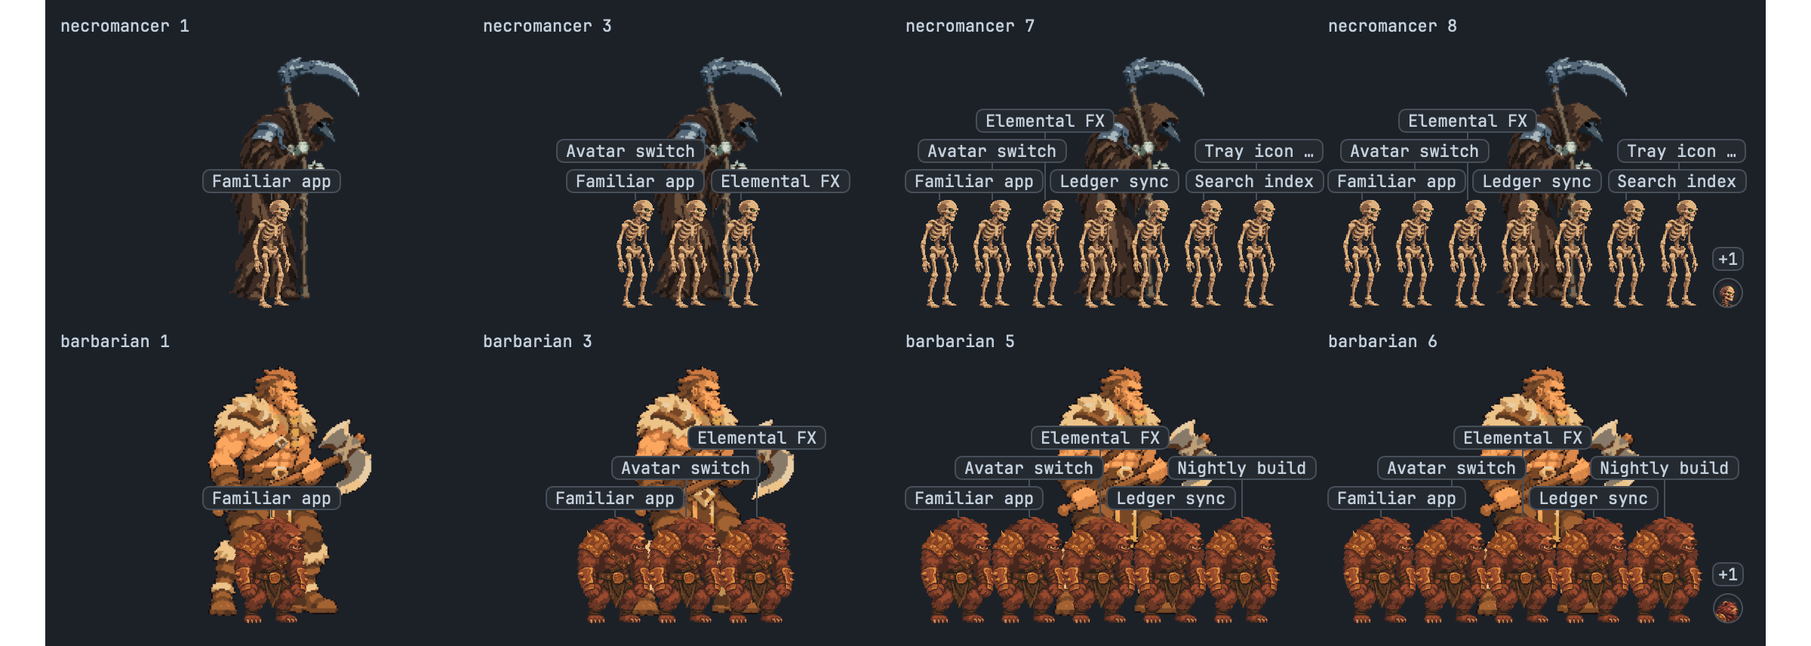
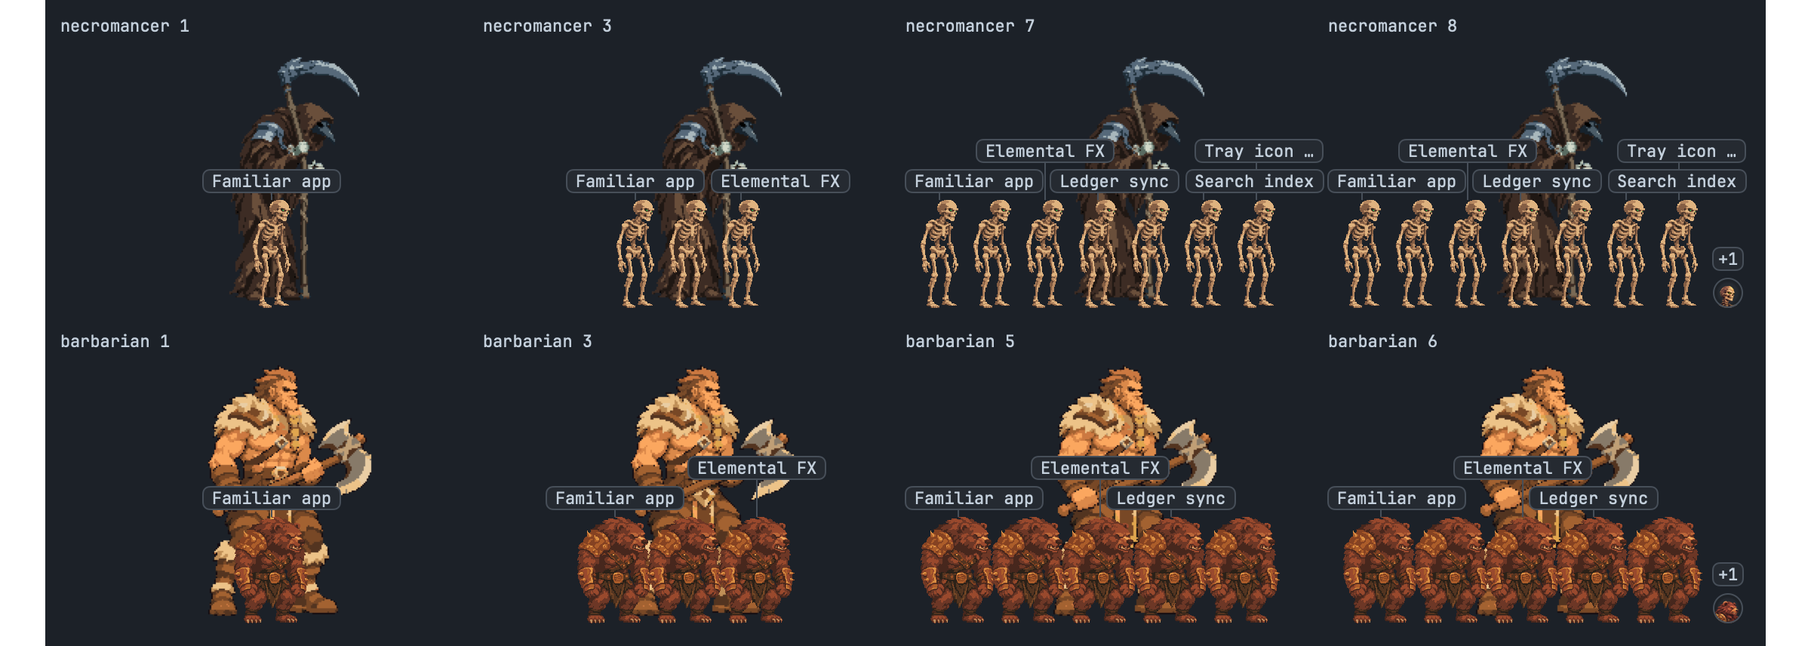
Show a worker's name only while it is working
An idle, done, blocked, stopped or errored worker's familiar keeps its place in the row but shows no name, and takes no room for the tiers. The rule is TrackerCompanyNameTags.showsName in Core; the tags come and go with the status.

diff --git a/app/Sources/Core/Tracker/TrackerCompanyNameTags.swift b/app/Sources/Core/Tracker/TrackerCompanyNameTags.swift
@@ -1,7 +1,8 @@
 import Foundation
 
-/// The worker names above the familiars in the master's company, as the tiered treatment places them. Each shown familiar's name sits in a
-/// chip over its head on a stem. A name takes the lowest of `tierCount` tiers with room over its head, a chip keeping `chipGap` from its
+/// The worker names above the familiars in the master's company, as the tiered treatment places them. A familiar's name shows only while its
+/// worker is working (a busy turn), in a chip over its head on a stem; an idle, done, blocked, stopped or errored worker's name shows
+/// nowhere and takes no room. A name takes the lowest of `tierCount` tiers with room over its head, a chip keeping `chipGap` from its
 /// neighbours on its tier. A tier whose band runs into the master's face is blocked where the face is. A name with no room on any tier is
 /// cut with an ellipsis to the widest free run over its head, and a name that cannot keep `minimumLetters` letters and an ellipsis gets no
 /// chip. Pure: the App measures the text and cuts it, through the `cut` closure. Heights are points above the slot's bottom.
@@ -21,19 +22,26 @@ public enum TrackerCompanyNameTags {
     /// The fewest letters a cut name keeps before its ellipsis.
     public static let minimumLetters = 4
 
-    /// One familiar's name to place: the full text width (without the chip's padding), the x of the familiar's centre, and the y of its
-    /// visible top.
+    /// Whether a worker's name shows at all: only while its session is working, the busy turn whose familiar poses thinking or working.
+    public static func showsName(_ session: TrackerSession) -> Bool {
+        TrackerStatusClassifier.classify(session).kind == .working
+    }
+
+    /// One familiar's name to place: the full text width (without the chip's padding), the x of the familiar's centre, the y of its
+    /// visible top, and whether its worker is working. A name whose worker is not working gets no placement and takes no room.
     public struct Tag: Equatable, Sendable {
         public let name: String
         public let nameWidth: Double
         public let centre: Double
         public let headTop: Double
+        public let working: Bool
 
-        public init(name: String, nameWidth: Double, centre: Double, headTop: Double) {
+        public init(name: String, nameWidth: Double, centre: Double, headTop: Double, working: Bool) {
             self.name = name
             self.nameWidth = nameWidth
             self.centre = centre
             self.headTop = headTop
+            self.working = working
         }
     }
 
@@ -68,14 +76,19 @@ public enum TrackerCompanyNameTags {
         public var stemLeft: Double { centre - 0.5 }
     }
 
-    /// Places each name, the first familiar's first, so an earlier name keeps the lower tier when two collide. `cut` returns the widest
-    /// prefix of a name plus an ellipsis whose text width is at most the given width, with that width; nil when even `minimumLetters` letters
-    /// and the ellipsis don't fit. A name's chip stays inside the slot's `slotWidth`, and a name that is wider than the slot is cut.
+    /// Places each working name, the first familiar's first, so an earlier name keeps the lower tier when two collide; a name that isn't
+    /// working is nil and places nothing. `cut` returns the widest prefix of a name plus an ellipsis whose text width is at most the given
+    /// width, with that width; nil when even `minimumLetters` letters and the ellipsis don't fit. A name's chip stays inside the slot's
+    /// `slotWidth`, and a name that is wider than the slot is cut.
     public static func place(_ tags: [Tag], face: Box?, slotWidth: Double,
                              cut: (String, Double) -> (text: String, width: Double)?) -> [Placement?] {
         var placed: [Placement] = []
         var result: [Placement?] = []
         for tag in tags {
+            guard tag.working else {
+                result.append(nil)
+                continue
+            }
             let placement = placeOne(tag, placed: placed, face: face, slotWidth: slotWidth, cut: cut)
             if let placement {
                 placed.append(placement)

diff --git a/app/Tests/QuestmasterLogicTests/TrackerCompanyNameTagsTests.swift b/app/Tests/QuestmasterLogicTests/TrackerCompanyNameTagsTests.swift
@@ -1,7 +1,8 @@
 import Foundation
 import QuestmasterCore
 
-/// The tiered worker names: the tier each name takes, its stem, the face it must not cover, and the cut to the room over its head.
+/// The tiered worker names: which names show (only a working worker's), the tier each name takes, its stem, the face it must not cover, and
+/// the cut to the room over its head.
 struct TrackerCompanyNameTagsTests {
     static func run() {
         aSingleNameStandsOnTheLowestTierCentred()
@@ -13,6 +14,9 @@ struct TrackerCompanyNameTagsTests {
         aNameWithNoRoomIsCutWithAnEllipsis()
         aNameThatFitsNowhereGetsNoChip()
         earlierNamesKeepTheLowerTier()
+        anIdleWorkersNameGetsNoChip()
+        anIdleWorkersNameTakesNoRoom()
+        onlyTheWorkingNamesAreTiered()
         print("TrackerCompanyNameTagsTests: all tests passed")
     }
 
@@ -21,8 +25,8 @@ struct TrackerCompanyNameTagsTests {
     private static let slotWidth = 280.0
     private static let headTop = 60.0
 
-    private static func tag(_ name: String, centre: Double) -> TrackerCompanyNameTags.Tag {
-        TrackerCompanyNameTags.Tag(name: name, nameWidth: charWidth * Double(name.count), centre: centre, headTop: headTop)
+    private static func tag(_ name: String, centre: Double, working: Bool = true) -> TrackerCompanyNameTags.Tag {
+        TrackerCompanyNameTags.Tag(name: name, nameWidth: charWidth * Double(name.count), centre: centre, headTop: headTop, working: working)
     }
 
     /// A cut like the App's: the whole name if it fits, else the widest prefix of at least four letters plus an ellipsis.
@@ -123,6 +127,31 @@ struct TrackerCompanyNameTagsTests {
     private static func earlierNamesKeepTheLowerTier() {
         let placed = place([tag("Ember", centre: 140), tag("Quartz", centre: 140)])
         expect(placed[0]?.tier == 0 && placed[1]?.tier == 1, "the first name should keep the lower tier, got \(placed.map { $0?.tier ?? -1 })")
+    }
+
+    /// A worker that is not working has no name over its familiar, even with room over its head.
+    private static func anIdleWorkersNameGetsNoChip() {
+        let placed = place([tag("Ember", centre: 140, working: false)])
+        expect(placed[0] == nil, "an idle worker's name should get no chip, got \(String(describing: placed[0]))")
+    }
+
+    /// An idle worker's name takes no room: a working name over the same head keeps the lowest tier, and the idle one between two working
+    /// names does not push the later one up.
+    private static func anIdleWorkersNameTakesNoRoom() {
+        let placed = place([tag("Ember", centre: 140), tag("Quartz", centre: 140, working: false), tag("Ash", centre: 140)])
+        expect(placed[1] == nil, "the idle name should have no chip")
+        let first = expectPlaced(placed[0], "Ember")
+        let last = expectPlaced(placed[2], "Ash")
+        expect(first.tier == 0, "the first working name should stand on the lowest tier, got \(first.tier)")
+        expect(last.tier == 1, "the third name should climb one tier, over the first working name only, got \(last.tier)")
+    }
+
+    /// Tiers are counted among the working names only: a name over an idle worker's old place stays on the lowest tier.
+    private static func onlyTheWorkingNamesAreTiered() {
+        let placed = place([tag("Ember", centre: 60, working: false), tag("Quartz", centre: 140), tag("Ash", centre: 150, working: false)])
+        expect(placed[0] == nil && placed[2] == nil, "the idle names should have no chip")
+        let second = expectPlaced(placed[1], "Quartz")
+        expect(second.tier == 0 && abs(second.bottom - (headTop + 5)) < 1e-9, "a working name should stand on the lowest tier with no idle name over it, got tier \(second.tier)")
     }
 
     private static func expect(_ condition: @autoclosure () -> Bool, _ message: String) {

diff --git a/app/Sources/App/Tracker/TrackerCompany.swift b/app/Sources/App/Tracker/TrackerCompany.swift
@@ -13,8 +13,10 @@ final class TrackerCompanyStage {
     /// One familiar on the row: its place in the slot, its art and the pose its own director plays.
     struct Companion: Identifiable {
         let id: String
-        /// The worker's session title: the name its tag shows.
+        /// The worker's session title: the name its tag shows, while the worker is working.
         let title: String
+        /// Whether the worker is working (`TrackerCompanyNameTags.showsName`): only then does its name show over it.
+        let working: Bool
         let sprites: TrackerAvatarSprites
         /// The points one frame pixel draws at: a familiar's company frame draws at its half point a pixel.
         let pixel: CGFloat
@@ -42,7 +44,8 @@ final class TrackerCompanyStage {
 
     /// The familiars that show, in spawn order: each stands further right than the one before, so the right-most is drawn on top.
     private(set) var companions: [Companion] = []
-    /// The names over the shown familiars, in spawn order. A name that fits nowhere has no tag, and the "+n" workers have none.
+    /// The names over the shown familiars, in spawn order. Only a working worker's name shows, a name that fits nowhere has no tag, and the
+    /// "+n" workers have none.
     private(set) var nameTags: [NameTag] = []
     /// The workers counted in the "+n" marker.
     private(set) var overflow = 0
@@ -94,12 +97,13 @@ final class TrackerCompanyStage {
         }
         // Each worker's familiar, in spawn order, from its company frames at a half point a pixel. A worker whose familiar has no art shows
         // nothing and takes no place.
-        let familiars: [(id: String, title: String, sprites: TrackerAvatarSprites, pixel: CGFloat)] = TrackerCompanyLayout.liveWorkers(of: master, in: sessions)
-            .compactMap { worker in
+        let familiars: [(id: String, title: String, working: Bool, sprites: TrackerAvatarSprites, pixel: CGFloat)] =
+            TrackerCompanyLayout.liveWorkers(of: master, in: sessions).compactMap { worker in
                 guard let key = catalog.art(for: worker), key.kind == .familiar, art[key] != nil, let company = companionArt[key.classID] else {
                     return nil
                 }
-                return (worker.id, worker.title, company, CGFloat(TrackerCompanyLayout.companyPixelPoints))
+                return (worker.id, worker.title, TrackerCompanyNameTags.showsName(worker), company,
+                        CGFloat(TrackerCompanyLayout.companyPixelPoints))
             }
         guard let first = familiars.first, let row = first.sprites.animation.companyRow else {
             clear()
@@ -136,6 +140,7 @@ final class TrackerCompanyStage {
             return Companion(
                 id: entry.id,
                 title: entry.title,
+                working: entry.working,
                 sprites: entry.sprites,
                 pixel: pixel,
                 bodyX: CGFloat(bodyX),
@@ -188,7 +193,8 @@ final class TrackerCompanyStage {
                 name: companion.title,
                 nameWidth: textWidth(companion.title),
                 centre: Double(companion.bodyX) + restCentreOffset(of: companion.sprites) * Double(companion.pixel),
-                headTop: -TrackerCompanyLayout.belowFeet + restHeight(of: companion.sprites) * Double(companion.pixel)
+                headTop: -TrackerCompanyLayout.belowFeet + restHeight(of: companion.sprites) * Double(companion.pixel),
+                working: companion.working
             )
         }
         let placements = TrackerCompanyNameTags.place(tags, face: faceBox(master: master, slotWidth: slotWidth), slotWidth: slotWidth) {

diff --git a/app/Sources/App/Runtime/RenderPreview.swift b/app/Sources/App/Runtime/RenderPreview.swift
@@ -1655,11 +1655,13 @@ enum RenderPreview {
         .background(AppPalette.window.swiftUI)
     }
 
-    /// The Necromancer and the Barbarian with worker names over their familiars, at one, three, a full row and a full row plus one. The titles
-    /// are invented, of mixed lengths up to 16 characters. Named by RENDER_ONLY=name-tags.
+    /// The Necromancer and the Barbarian with worker names over their working familiars, at one, three, a full row and a full row plus one.
+    /// The workers are a mix of working and idle, so only the working ones have names. The titles are invented, of mixed lengths up to 16
+    /// characters. Named by RENDER_ONLY=name-tags.
     @MainActor
     private static func companyNameTagsView() -> some View {
         let titles = ["Familiar app", "Avatar switch", "Elemental FX", "Ledger sync", "Nightly build", "Search index", "Tray icon polish", "Docs pass 2"]
+        let busy = [true, false, true, true, false, true, true, false]
         let rows: [(classID: String, full: Int)] = [("necromancer", 7), ("barbarian", 5)]
         return VStack(alignment: .leading, spacing: Space.item) {
             ForEach(rows, id: \.classID) { row in
@@ -1667,7 +1669,7 @@ enum RenderPreview {
                     ForEach([1, 3, row.full, row.full + 1], id: \.self) { count in
                         VStack(alignment: .leading, spacing: 0) {
                             Text("\(row.classID) \(count)").font(Font(AppFonts.monoSmall)).foregroundStyle(AppPalette.text.swiftUI)
-                            companyCell(classID: row.classID, workers: count, titles: titles)
+                            companyCell(classID: row.classID, workers: count, titles: titles, working: busy)
                                 .frame(width: TrackerAvatarMetrics.slotWidth, height: TrackerAvatarMetrics.slotHeight)
                                 .padding(.bottom, TrackerListMetrics.avatarBannerGap)
                         }
@@ -1734,13 +1736,15 @@ enum RenderPreview {
         .background(AppPalette.window.swiftUI)
     }
 
-    /// One master's company: its stages fed with the master and its workers, drawn as the tracker draws them.
+    /// One master's company: its stages fed with the master and its workers, drawn as the tracker draws them. `working`, when given, says
+    /// which workers are busy, by index cycling through it; the others are idle.
     @MainActor
-    private static func companyCell(classID: String, workers count: Int, titles: [String]? = nil) -> some View {
+    private static func companyCell(classID: String, workers count: Int, titles: [String]? = nil, working: [Bool]? = nil) -> some View {
         let master = try! testFixtureRow(["id": "qm-m", "title": classID, "session_type": "master", "class": classID, "state": "working"])
         let workers = (0..<count).map { index -> TrackerSession in
             let title = titles.map { $0[index % $0.count] } ?? "Worker \(index)"
-            return try! testFixtureRow(["id": "qm-w\(index)", "title": title, "session_type": "worker", "parent_id": "qm-m", "class": classID, "state": "working"])
+            let busy = working.map { $0[index % $0.count] } ?? true
+            return try! testFixtureRow(["id": "qm-w\(index)", "title": title, "session_type": "worker", "parent_id": "qm-m", "class": classID, "state": busy ? "working" : "idle"])
         }
         let avatar = TrackerAvatarStage(clock: { 0 })
         let company = TrackerCompanyStage(clock: { 0 })

diff --git a/app/Sources/App/Runtime/LogicSelfTests.swift b/app/Sources/App/Runtime/LogicSelfTests.swift
@@ -2831,13 +2831,23 @@ enum LogicSelfTests {
         let stage = TrackerCompanyStage(clock: { clock.now })
         let master = try testRow(["id": "qm-m", "title": "Necromancer", "session_type": "master", "class": "necromancer"])
         let titles = ["Ember", "Ledger sync", "Tray icon polish"]
-        let workers = try titles.enumerated().map { index, title in
-            try testRow(["id": "qm-w\(index)", "title": title, "session_type": "worker", "parent_id": "qm-m", "class": "necromancer"])
+        // Only a working worker's name shows: the middle worker is idle here, so it gets no tag.
+        func rows(middleState: String) throws -> [TrackerSession] {
+            try titles.enumerated().map { index, title in
+                try testRow(["id": "qm-w\(index)", "title": title, "session_type": "worker", "parent_id": "qm-m", "class": "necromancer",
+                             "state": index == 1 ? middleState : "working"])
+            }
         }
+        let workers = try rows(middleState: "idle")
         stage.observe(sessions: [master] + workers, attachedID: "qm-m")
-        // A name with no room on any tier gets no chip (the Necromancer's third familiar here, over its face), so the tags only follow spawn order.
         let ids = stage.nameTags.map(\.id)
-        try expect(ids.first == "qm-w0" && ids == ids.sorted(), "the first familiar should get a name tag, and the tags should follow spawn order, got \(ids)")
+        try expect(ids.first == "qm-w0" && ids == ids.sorted() && !ids.contains("qm-w1"),
+                   "the working familiars should get name tags in spawn order, and the idle one none, got \(ids)")
+        // A tag comes and goes with the status: the idle worker's name shows once it works, and goes when it is idle again.
+        stage.observe(sessions: [master] + (try rows(middleState: "working")), attachedID: "qm-m")
+        try expect(stage.nameTags.contains { $0.id == "qm-w1" }, "a worker's name should show once it is working, got \(stage.nameTags.map(\.id))")
+        stage.observe(sessions: [master] + workers, attachedID: "qm-m")
+        try expect(!stage.nameTags.contains { $0.id == "qm-w1" }, "a worker's name should go when it stops working, got \(stage.nameTags.map(\.id))")
         try expect(stage.nameTags.first?.text == "Ember", "the first name should keep its full text, got \(stage.nameTags.first?.text ?? "none")")
         for tag in stage.nameTags {
             try expect(tag.text == titles[tag.id == "qm-w0" ? 0 : tag.id == "qm-w1" ? 1 : 2] || tag.text.hasSuffix("…"),

diff --git a/.agents/skills/class-avatar/references/behaviour.md b/.agents/skills/class-avatar/references/behaviour.md
@@ -33,7 +33,7 @@ Which pose shows when, how cues play, and where the avatar sits.
   front of the master, right-most on top. A worker whose familiar has no art
   takes no place. A worker attached (not its master) shows its own familiar alone, as before. The slot, banner and plates never move or
   resize for the company.
-- **Names:** each shown familiar in the master's company carries its worker's session title in a chip above its head, 15 pt tall, JetBrains Mono 11 pt, on a 5 pt stem down to the head (`TrackerCompanyNameTags.place` in Core decides; `TrackerCompanyStage` measures and cuts, and the slot draws). A name takes the lowest of three tiers with room over its head, 20 pt apart, keeping a 5 pt gap from its neighbours. A tier whose band runs into the master's face is blocked where the face is, from the class's `head` box in its `animation.json` (`TrackerAvatarAnimation.headBox`; every class has one, measured from its idle art). A name with no room on any tier is cut with an ellipsis to the widest free run over its head, and a name that cannot keep four letters and an ellipsis gets no chip. The "+n" workers and an attached worker's own familiar get no name.
+- **Names:** a familiar in the master's company carries its worker's session title in a chip above its head only while the worker is working (`TrackerCompanyNameTags.showsName`: a busy turn, status working, whose familiar poses thinking or working). The chip is 15 pt tall, JetBrains Mono 11 pt, on a 5 pt stem down to the head (`TrackerCompanyNameTags.place` in Core decides; `TrackerCompanyStage` measures and cuts, and the slot draws). An idle, done, blocked, needs-input, stopped or errored worker's name shows nowhere and takes no room, so the tiers are counted among the working names only. A tag appears and goes with the status, with no hover or colour change. A name takes the lowest of three tiers with room over its head, 20 pt apart, keeping a 5 pt gap from its neighbours. A tier whose band runs into the master's face is blocked where the face is, from the class's `head` box in its `animation.json` (`TrackerAvatarAnimation.headBox`; every class has one, measured from its idle art). A name with no room on any tier is cut with an ellipsis to the widest free run over its head, and a name that cannot keep four letters and an ellipsis gets no chip. The "+n" workers and an attached worker's own familiar get no name.
 - **Director:** `TrackerAvatarDirector` (Core) decides the pose, and it is pure. **Nothing that has an end is cut:** an enter, a finish and a one-shot (a release, a catch, a summoning cast's beat, the bow) always play to their end, whatever else is wanted. A loop has no end, so it can be left at any time: when another pose is wanted its own finish plays (if it has one), then the next pose opens on its enter. A steady change holds the shown pose for `TrackerAvatarTiming.holdSeconds` (1.0 s), counted from the pose's arrival (it stops a tool that flickers on for a moment from starting a whole enter and finish), and waits for the pose's enter to end if that is longer; only the latest wanted pose is kept meanwhile, so the poses wanted in between are dropped and nothing replays a backlog. Calling out follows the same rule but skips the hold and the queue: it waits only for the block on screen to end (an enter or a finish, about 0.5 s at most; the beat on screen, when a cue is playing), the loop it leaves plays its finish first, and it comes on screen before the cues queued behind. A steady change, unlike calling out, waits for every queued or playing cue to end first. Every turn the director saw working bows once at its end, as the turn's closing beat, after its sub-agents stop. A session that goes done without being seen working (attached already done) doesn't bow. Attaching to a done session, or switching to one, shows no bow. Tracker events (`TrackerAvatarEventDetector`, from consecutive payloads; the first payload, an attach and a switch are a baseline) play as cues, each one or two beats: a spawned worker summons (the summoning cast on its own beat, then the release; while a summoning from a running spawn command is on screen, the release waits for that summoning's finish), a message to a worker releases, and a worker's report catches as it arrives. Nothing flies: the cues are poses only. A cue never cuts an enter, a finish or the bow: it waits for it to end. A cue that leaves a loop leaves it through the loop's own finish (a loop with no finish block is cut at once), which plays before the cue's first beat, so the cue's beat starts when it ends; the figure rests on the finish's last frame until a beat covers it. The loop doesn't come back after the cues: when the queue is empty (or calling out is wanted), the latest wanted steady pose shows on its enter, the pose that finished included. A cue that comes while the master is calling out leaves calling out through its finish, and calling out returns on its enter if still wanted. At most `queueCapacity` (4) cues wait behind the one playing; a burst past that drops the newest. A release or a catch that names its `strike_frame` plays its entrance before its strike inside its own beat, which keeps the one-shot's length; the strike frame only times the figure's move (see `references/animation-file.md`). Under Reduce Motion the cues still play their poses.
 - **Playback:** a loop cycles each track on its own clock, so a 1-frame character and an 8-frame front run independently. A one-shot, an enter or a finish plays each track once, holds its last frame, and lasts as long as its longest track (`TrackerAvatarBlock.seconds`). Each track is a discrete keyframe run on its layer's contents, and a discrete keyframe holds each value only up to the next key, so every sequence closes on a repeated key. `TrackerAvatarFrame.beat` rises whenever a pose's cue starts, so a repeated one-shot plays again. Changes snap: the layers take contents, position, bounds and hidden at once (`TrackerAvatarLayerActions`), so there is no crossfade. `testAvatarPoseSwitchesLandAtOnceWithNoImplicitAnimation` checks the keys after a switch. Frames have no glow or floaters.
 - **Finish:** when the steady pose leaves for another steady pose, its own `finish` plays first (any pose with a loop may have one, a cast or not), once the hold has run, and the new pose shows when it ends, opening on its own enter if it has one. It is skipped for a switch to the same pose, when the pose has no finish block (it then snaps), and under Reduce Motion; calling out and a bow wait for the finish like any change. Nothing cuts a finish: a change that arrives during one doesn't restart it, a cue or calling out waits for it, and the pose wanted at its end shows, with the poses wanted in between dropped. The finishing pose itself, wanted back by then, opens on its enter again. The finish's layers hold the frame at its elapsed time (`TrackerAvatarFrame.finishElapsed`).

diff --git a/.agents/skills/app-surfaces/references/tracker.md b/.agents/skills/app-surfaces/references/tracker.md
@@ -59,7 +59,7 @@ in the same slot and above the same banner (`.agents/skills/class-avatar/SKILL.m
 attached master's slot also holds its live workers' familiars, small, in one row: its workers stand at their pitch, in spawn
 order, centred on a point that moves from the master's body column toward the full row's centre as workers are added (the newest is the
 right-most; one worker is centred on the body column). A `+n`
-chip sits above the master's familiar's disc once the row is full (`TrackerCompanySlot`, `TrackerCompanyStage`). Each shown familiar also carries its worker's name in a 15 pt chip on a 5 pt stem, in up to three tiers 20 pt apart, placed by `TrackerCompanyNameTags` (Core): a name over the master's face goes up a tier, and a name with no room is cut with an ellipsis. The master never moves,
+chip sits above the master's familiar's disc once the row is full (`TrackerCompanySlot`, `TrackerCompanyStage`). A familiar whose worker is working also carries its worker's name in a 15 pt chip on a 5 pt stem, in up to three tiers 20 pt apart, placed by `TrackerCompanyNameTags` (Core): a name over the master's face goes up a tier, and a name with no room is cut with an ellipsis. Idle workers' names show nowhere, and a name appears and goes with the worker's status. The master never moves,
 standing at the slot's centre; the slot, banner and plate list stay put.
 
 Master plates are `TrackerPlateDesign.plateWidth` (240pt). Worker discs keep their 20-60pt column and their plates
